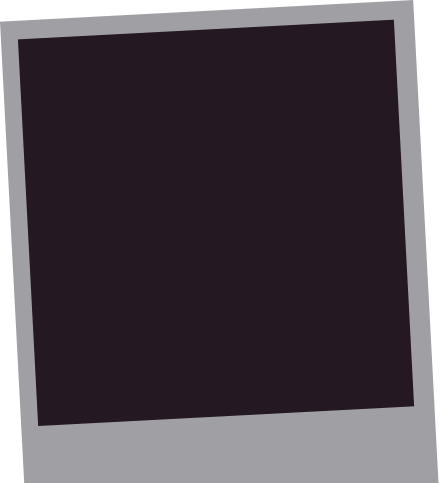
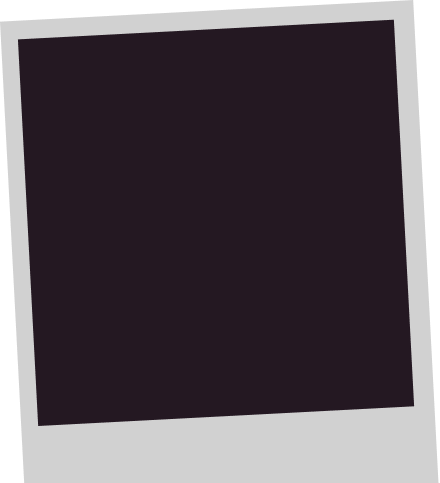
add stickers

Changed region(s): [[0.0, 0.0, 1.0, 1.0]]

diff --git a/tutorial_4/index.html b/tutorial_4/index.html
@@ -14,7 +14,7 @@
   </head>
 
   <body>
-    <video class="bg-video" autoplay muted loop playsinline poster="images/bg.jpg">
+    <video class="bg-video" autoplay muted loop playsinline poster="images/background-img.png">
     <source src="videos/lis_video.mp4" type="video/mp4">
   </video>
     <!-- _______________Название синтезатора_______________ -->
@@ -22,6 +22,11 @@
     <h1 class="lis">LIS SINTEZATOR</h1>
     <p class="autumn">собери мелодию осени</p>
    </section>
+
+   <img src="images/cdDisk.png" alt="" class="sticker_1">
+   <img src="images/butterfly.png" alt="" class="sticker_2">
+   <img src="images/letter.png" alt="" class="sticker_3">
+   <img src="images/dontMove.png" alt="" class="sticker_4">
 
    <!-- _________________секции с голосами_________________ -->
    <section class="voices">
@@ -64,7 +69,8 @@
       </div>
     </div>
    </section>
-
+   
+   <!-- ___________________секция с эффектами___________________ -->
    <section class="effects">
     <div class="card_1" id="osc-max">
       <h3>Осциллятор</h3>

diff --git a/tutorial_4/stylesheets/layout.css b/tutorial_4/stylesheets/layout.css
@@ -50,6 +50,47 @@ body {
   color: var(--font);
 }
 
+.sticker_1,
+.sticker_2,
+.sticker_3,
+.sticker_4 {
+  width: 8vw;
+  position: absolute;
+  z-index: 1;
+}
+.sticker_1 {
+  top: 9vw;
+  left: 19vw;
+  transition: transform 0.5s ease;
+}
+.sticker_1:hover {
+  transform: rotate(10deg) translateX(2vw) translateY(1.5vw);
+}
+.sticker_2 {
+  top: 9vw;
+  left: 74vw;
+  transition: transform 0.5s ease;
+}
+.sticker_2:hover {
+  transform: rotate(-10deg) translateX(-2vw) translateY(-1.5vw);
+}
+.sticker_3 {
+  top: 34vw;
+  left: 20vw;
+  transition: transform 0.5s ease;
+}
+.sticker_3:hover {
+  transform: rotate(10deg) translateX(-2vw) translateY(-1.5vw);
+}
+.sticker_4 {
+  top: 34vw;
+  left: 67vw;
+  transition: transform 0.5s ease;
+}
+.sticker_4:hover {
+  transform: rotate(-10deg) translateX(2vw) translateY(1.5vw);
+}
+
 .voices {
   height: 47%;
   display: flex;
